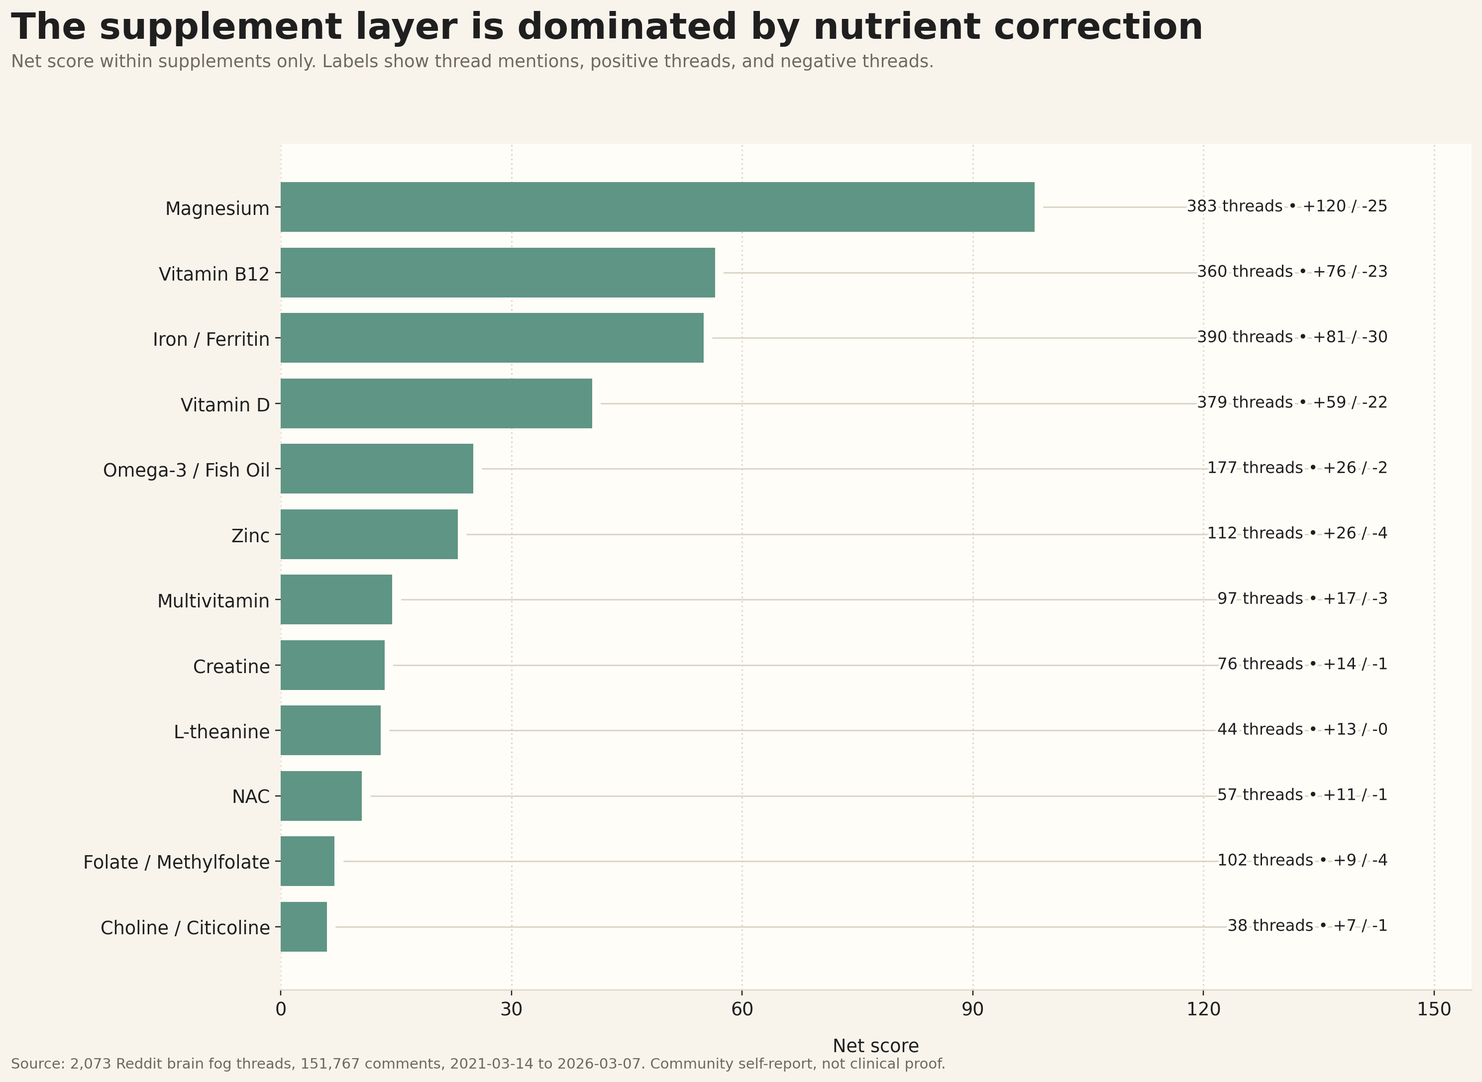
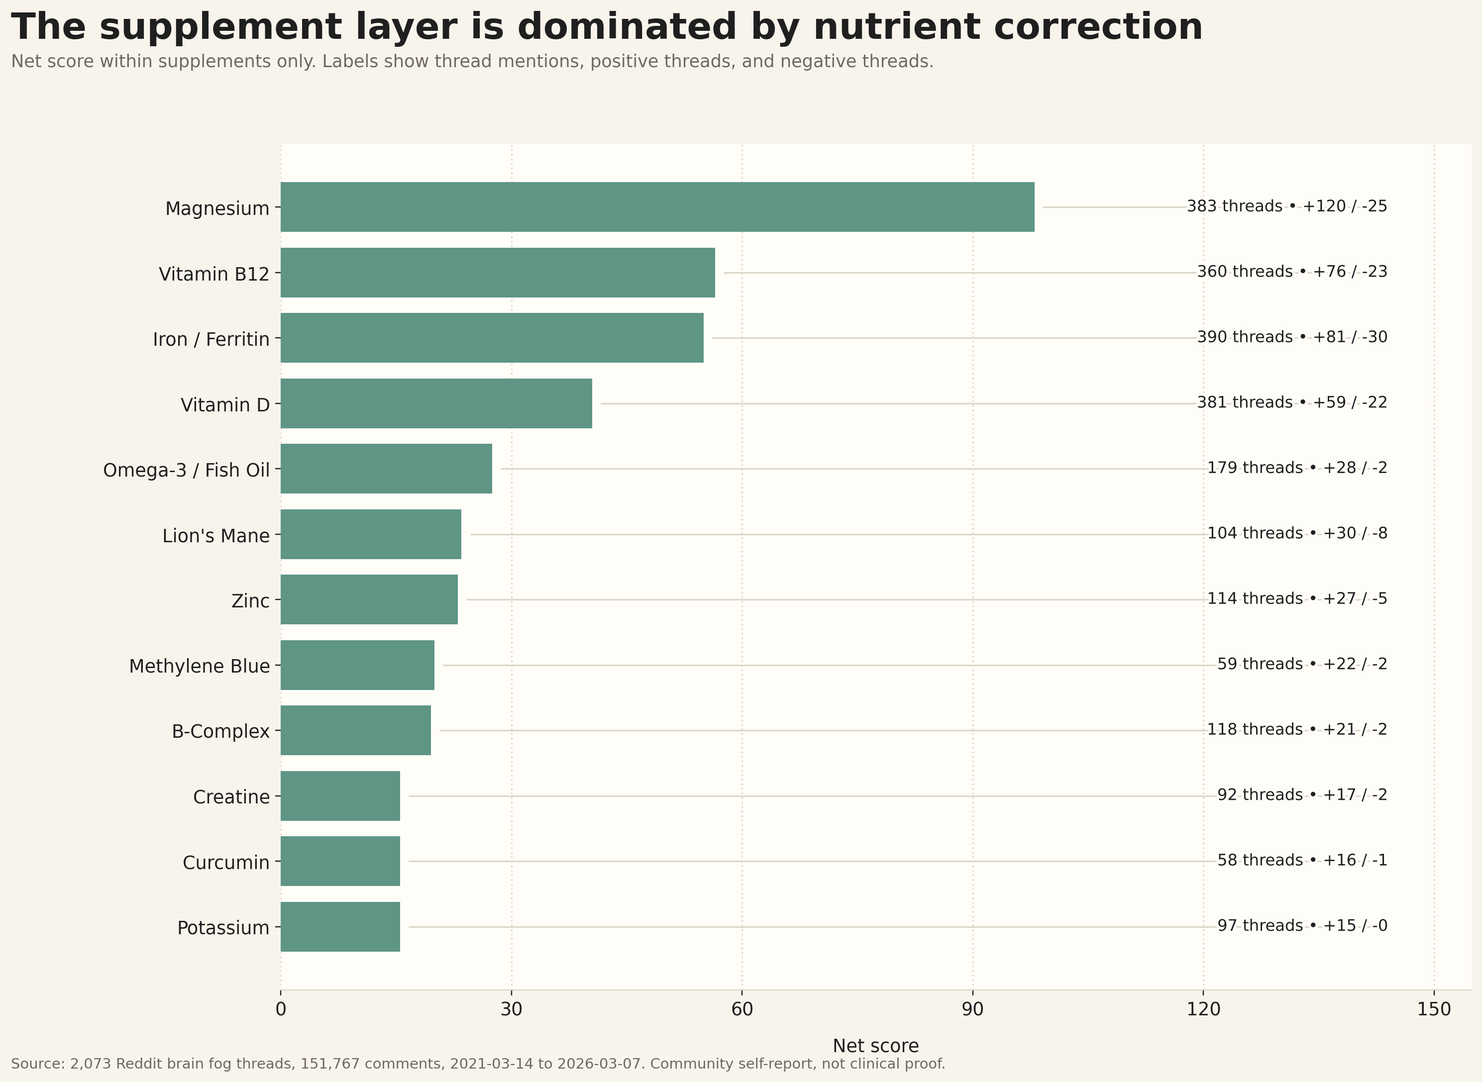
Deploy site from personal-website

diff --git a/posts/2026/what-2073-reddit-brain-fog-threads-reveal/index.html b/posts/2026/what-2073-reddit-brain-fog-threads-reveal/index.html
@@ -219,7 +219,7 @@
 	animation-duration: 180ms;
 	animation-timing-function: cubic-bezier(0.76, 0, 0.24, 1);
 	animation-fill-mode: both;
-	animation-name: astroFadeIn; }</style></head> <body data-astro-cid-sckkx6r4>  <script type="application/ld+json">{"@context":"https://schema.org","@type":"BlogPosting","headline":"Five Years of Brain Fog on Reddit: What 2,073 Threads and 151,767 Comments Reveal","description":"A five-year Reddit analysis of brain fog across 2,073 threads and 151,767 comments, showing which interventions dominate attention, which patterns look strongest, which ideas look divisive, and which quieter signals seem underrated.","author":{"@type":"Person","name":"Markus Baumann","url":"https://eybmits.github.io/about"},"datePublished":"2026-03-07T22:55:00.000Z","dateModified":"2026-03-07T22:55:00.000Z","publisher":{"@type":"Person","name":"Markus Baumann","logo":{"@type":"ImageObject","url":"https://eybmits.github.io/avatar.svg"}},"mainEntityOfPage":{"@type":"WebPage","@id":"https://eybmits.github.io/posts/2026/what-2073-reddit-brain-fog-threads-reveal"},"image":"https://eybmits.github.io/posts/2026/what-2073-reddit-brain-fog-threads-reveal/index.png","articleSection":"brain-fog","keywords":"brain-fog, data-analysis, reddit, health, research","wordCount":2053,"timeRequired":"11 min read"}</script> <header> <a id="skip-to-content" href="#main-content" class="absolute -top-full left-16 z-50 bg-background px-3 py-2 text-accent backdrop-blur-lg transition-all focus:top-4">
+	animation-name: astroFadeIn; }</style></head> <body data-astro-cid-sckkx6r4>  <script type="application/ld+json">{"@context":"https://schema.org","@type":"BlogPosting","headline":"Five Years of Brain Fog on Reddit: What 2,073 Threads and 151,767 Comments Reveal","description":"A five-year Reddit analysis of brain fog across 2,073 threads and 151,767 comments, showing which interventions dominate attention, which patterns look strongest, which ideas look divisive, and which quieter signals seem underrated.","author":{"@type":"Person","name":"Markus Baumann","url":"https://eybmits.github.io/about"},"datePublished":"2026-03-07T22:55:00.000Z","dateModified":"2026-03-07T22:55:00.000Z","publisher":{"@type":"Person","name":"Markus Baumann","logo":{"@type":"ImageObject","url":"https://eybmits.github.io/avatar.svg"}},"mainEntityOfPage":{"@type":"WebPage","@id":"https://eybmits.github.io/posts/2026/what-2073-reddit-brain-fog-threads-reveal"},"image":"https://eybmits.github.io/posts/2026/what-2073-reddit-brain-fog-threads-reveal/index.png","articleSection":"brain-fog","keywords":"brain-fog, data-analysis, reddit, health, research","wordCount":2103,"timeRequired":"11 min read"}</script> <header> <a id="skip-to-content" href="#main-content" class="absolute -top-full left-16 z-50 bg-background px-3 py-2 text-accent backdrop-blur-lg transition-all focus:top-4">
 Skip to content
 </a> <div id="nav-container" class="mx-auto flex max-w-3xl flex-col items-center justify-between sm:flex-row"> <div id="top-nav-wrap" class="relative flex w-full items-baseline justify-between bg-background p-4 sm:items-center sm:py-6"> <a href="/" class="absolute py-1 text-2xl leading-7 font-semibold whitespace-nowrap sm:static"> Markus Baumann </a> <nav id="nav-menu" class="flex w-full flex-col items-center sm:ml-2 sm:flex-row sm:justify-end sm:space-x-4 sm:py-0"> <button id="menu-btn" class="focus-outline self-end p-2 sm:hidden" aria-label="Open Menu" aria-expanded="false" aria-controls="menu-items"> <svg width="24" height="24" viewBox="0 0 24 24" fill="none" stroke="currentColor" stroke-width="2" stroke-linecap="round" stroke-linejoin="round" class="hidden" id="close-icon"><path stroke="none" d="M0 0h24v24H0z" fill="none" /><path d="M18 6l-12 12" /><path d="M6 6l12 12" /></svg> <svg width="24" height="24" viewBox="0 0 24 24" fill="none" stroke="currentColor" stroke-width="2" stroke-linecap="round" stroke-linejoin="round" class="icon icon-tabler icons-tabler-outline icon-tabler-menu-deep" id="menu-icon"><path stroke="none" d="M0 0h24v24H0z" fill="none" /><path d="M4 6h16" /><path d="M7 12h13" /><path d="M10 18h10" /></svg> </button> <ul id="menu-items" class="mt-4 grid w-44 grid-cols-2 place-content-center gap-2 [&#38;>li>a]:block [&#38;>li>a]:px-4 [&#38;>li>a]:py-3 [&#38;>li>a]:text-center [&#38;>li>a]:font-medium [&#38;>li>a]:hover:text-accent sm:[&#38;>li>a]:px-2 sm:[&#38;>li>a]:py-1 hidden sm:mt-0 sm:ml-0 sm:flex sm:w-auto sm:gap-x-5 sm:gap-y-0"> <li class="col-span-2"> <a href="/posts" class="active-nav">
 Posts
@@ -260,7 +260,7 @@ About
 <p>Once you zoom out, the conversation becomes much more structured than it first appears.</p>
 <p>It is not just a cloud of random desperation posts. And it is not dominated mainly by fringe biohacking. Across five years and more than <code>150,000</code> comments, the same themes keep resurfacing: sleep, nutrient status, movement, hydration, stress regulation, diet, stimulants, antihistamines, hormones, breathing, and pacing.</p>
 <p>A second pattern is just as striking: the strongest signals are often less glamorous than people expect. Sleep hygiene, therapy, hydration, walking, magnesium, <code>B12</code>, iron, and basic nutrition changes show up over and over again. The center of gravity is much closer to regulation and correction than to miracle hacks.</p>
-<p>Then there is a third layer: some lower-visibility ideas appear stronger than their level of attention would suggest. Antihistamines, <code>CPAP / BiPAP</code>, <code>L-theanine</code>, hormone-related interventions, and a handful of quieter strategies stand out more than their visibility would predict.</p>
+<p>Then there is a third layer: some lower-visibility ideas appear stronger than their level of attention would suggest. Antihistamines still stand out, but the refreshed item set also pulls up <code>Methylene Blue</code>, <code>Nattokinase</code>, <code>Low-Histamine Diet</code>, <code>Curcumin</code>, <code>Berberine</code>, <code>B-Complex</code>, and <code>Thiamine / Vitamin B1</code> as quieter signals worth a closer look.</p>
 <p>This does not make them proven. It makes them interesting.</p>
 <h2 id="1-what-gets-mentioned-most">1. What gets mentioned most?</h2>
 <figure>
@@ -281,19 +281,7 @@ About
 <h2 id="3-which-interventions-look-promising-and-which-look-divisive">3. Which interventions look promising, and which look divisive?</h2>
 <p>The hero chart above is the single best overview in the entire post.</p>
 <p>The x-axis shows the share of mentioning threads that describe an intervention negatively. The y-axis shows the share of mentioning threads that describe it positively. So the most attractive region is the upper left: more positive reports, fewer negative ones.</p>
-<p>That focus zone is where several clean signals cluster:</p>
-<ol>
-<li><code>Yoga / Stretching</code></li>
-<li><code>Intermittent Fasting</code></li>
-<li><code>Sleep Hygiene / Sleep Schedule</code></li>
-<li><code>Meditation / Breathwork</code></li>
-<li><code>L-theanine</code></li>
-<li><code>Guanfacine / Clonidine</code></li>
-<li><code>Hydration / Electrolyte Protocol</code></li>
-<li><code>Cardio Training</code></li>
-<li><code>Hormone Replacement Protocol</code></li>
-<li><code>Zinc</code></li>
-</ol>
+<p>That focus zone now includes several especially clean signals: <code>Nattokinase</code>, <code>Methylene Blue</code>, <code>Low-Histamine Diet</code>, <code>Yoga / Stretching</code>, <code>Guanfacine / Clonidine</code>, <code>Intermittent Fasting</code>, <code>Sleep Hygiene / Sleep Schedule</code>, <code>Meditation / Breathwork</code>, <code>Curcumin</code>, <code>L-theanine</code>, <code>Hydration / Electrolyte Protocol</code>, <code>Cardio Training</code>, <code>Zinc</code>, and <code>Hormone Replacement Protocol</code>.</p>
 <p>The chart also shows why some medications need a more careful reading. <code>Vyvanse</code>, <code>Ritalin / Methylphenidate</code>, <code>Adderall</code>, and <code>Bupropion / Wellbutrin</code> can sit fairly high on positive reports while also drifting rightward into a more divisive zone. In plain English: they can help, but they also generate more downside reports and more disagreement.</p>
 <p>Some interventions look broadly clean. Others look powerful but unstable.</p>
 <h2 id="4-which-supplements-lead-the-pack">4. Which supplements lead the pack?</h2>
@@ -302,8 +290,8 @@ About
   <figcaption>Supplements are one of the cleanest categories to inspect separately because they mix broad micronutrient correction with more speculative nootropics.</figcaption>
 </figure>
 <p>The supplement chart is more conservative than the internet usually is.</p>
-<p>The top layer is familiar and surprisingly robust: <code>Magnesium</code>, <code>Vitamin B12</code>, <code>Iron / Ferritin</code>, and <code>Vitamin D</code>. Those are not trendy answers, but they recur again and again. Lower down, <code>Omega-3 / Fish Oil</code>, <code>Zinc</code>, <code>Creatine</code>, <code>L-theanine</code>, <code>NAC</code>, and <code>Choline / Citicoline</code> form a secondary tier.</p>
-<p>One interpretation is that the supplement story is not mainly about flashy cognitive enhancers. It is often about correcting basic physiological problems first: deficiency, stress load, sleep quality, energy balance, and inflammation-adjacent issues.</p>
+<p>The top layer is still familiar and surprisingly robust: <code>Magnesium</code>, <code>Vitamin B12</code>, <code>Iron / Ferritin</code>, and <code>Vitamin D</code>. Those are not trendy answers, but they recur again and again. But the next tier is broader than the first pass suggested. <code>Omega-3 / Fish Oil</code> stays visible, while <code>Lion's Mane</code>, <code>Methylene Blue</code>, <code>B-Complex</code>, <code>Creatine</code>, <code>Curcumin</code>, <code>Potassium</code>, <code>Thiamine / Vitamin B1</code>, <code>Multivitamin</code>, <code>L-theanine</code>, and <code>Nattokinase</code> now register as meaningful supplement-level signals.</p>
+<p>One interpretation is that the supplement story is still not mainly about flashy cognitive enhancers. Even many of the newer names map back to subtype stories: post-viral recovery, histamine, methylation or B-vitamin status, gut-directed protocols, inflammation, and energy metabolism.</p>
 <h2 id="5-which-medications-stand-out">5. Which medications stand out?</h2>
 <figure>
   <img src="/images/posts/brainfog-reddit-analysis/05_top_medications.png" alt="Bar chart of the top medications discussed for brain fog by net score.">
@@ -326,7 +314,7 @@ About
   <figcaption>These are interventions with stronger-than-expected support relative to how rarely they are discussed.</figcaption>
 </figure>
 <p>This chart is where the analysis starts to get interesting.</p>
-<p>The standout names are <code>L-theanine</code>, <code>Antihistamines</code>, <code>Carnivore Diet</code>, and <code>Guanfacine / Clonidine</code>. These are not the most talked-about ideas overall, but they look stronger than their low visibility would predict.</p>
+<p>The standout names now are <code>Nattokinase</code>, <code>Berberine</code>, <code>Methylene Blue</code>, <code>Low-Histamine Diet</code>, <code>Curcumin</code>, <code>Antihistamines</code>, <code>L-theanine</code>, and <code>Lion's Mane</code>. These are not the most talked-about ideas overall, but they look stronger than their low visibility would predict.</p>
 <p>That makes them worth paying attention to, not because they are proven winners, but because low-visibility signals are exactly where communities sometimes notice something before it becomes mainstream.</p>
 <h2 id="8-what-looks-underrated-once-you-combine-signal-quality-and-surprise">8. What looks underrated once you combine signal quality and surprise?</h2>
 <figure>
@@ -334,7 +322,7 @@ About
   <figcaption>This ranking blends positivity, low downside, and surprise relative to visibility.</figcaption>
 </figure>
 <p>The underrated-positive ranking broadens the hidden-gem idea.</p>
-<p><code>L-theanine</code> remains the strongest low-visibility signal. <code>Antihistamines</code> stay unusually prominent. <code>Carnivore Diet</code>, <code>Zinc</code>, <code>Hormone Replacement Protocol</code>, <code>NAC</code>, <code>Creatine</code>, <code>Elimination Diet</code>, <code>Gluten-free</code>, <code>Guanfacine / Clonidine</code>, <code>Multivitamin</code>, and <code>Choline / Citicoline</code> all show up as interventions that seem better than their low status would suggest.</p>
+<p><code>Methylene Blue</code> and <code>Nattokinase</code> now lead the underrated-positive ranking. <code>Low-Histamine Diet</code>, <code>Berberine</code>, <code>Curcumin</code>, <code>Antihistamines</code>, <code>L-theanine</code>, <code>Lion's Mane</code>, <code>Carnivore Diet</code>, <code>Zinc</code>, <code>Hormone Replacement Protocol</code>, and <code>Low-Dose Naltrexone</code> also show up as interventions that seem better than their low status would suggest.</p>
 <p>Even if not every individual signal survives future scrutiny, the pattern is still useful: many of the overlooked signals cluster around inflammation, diet tolerance, autonomic regulation, or deficiency correction rather than generic “brain boosters.”</p>
 <h2 id="9-which-very-low-visibility-ideas-still-deserve-attention">9. Which very low-visibility ideas still deserve attention?</h2>
 <figure>
@@ -342,7 +330,7 @@ About
   <figcaption>This is the stricter version of the hidden-gem view: interventions that barely get discussed but still look unexpectedly positive.</figcaption>
 </figure>
 <p>Once the filter becomes more demanding, the list gets narrower and more provocative.</p>
-<p><code>L-theanine</code> still holds up. <code>Hormone Replacement Protocol</code> remains notable. <code>Guanfacine / Clonidine</code>, <code>Choline / Citicoline</code>, <code>Low-Dose Naltrexone</code>, and even <code>Dairy-free</code> appear as small but non-trivial signals.</p>
+<p><code>Nattokinase</code> now tops the stricter filter. <code>Hormone Replacement Protocol</code> remains notable. <code>Guanfacine / Clonidine</code>, <code>Low-Dose Naltrexone</code>, <code>Red-Light Therapy</code>, <code>Digestive Enzymes</code>, <code>Choline / Citicoline</code>, and <code>Propranolol</code> also survive this narrower screen.</p>
 <p>These are exactly the kinds of findings that can generate useful next questions. Not “this definitely works,” but “why does this show up here, and for which subgroup?”</p>
 <h2 id="10-which-interventions-look-positive-with-comparatively-low-downside">10. Which interventions look positive with comparatively low downside?</h2>
 <figure>
@@ -350,7 +338,7 @@ About
   <figcaption>If you optimize for cleaner profiles rather than sheer force, a somewhat different list rises.</figcaption>
 </figure>
 <p>This is one of the most practical charts in the whole set.</p>
-<p>If you care about interventions that combine meaningful positive reports with a relatively small negative tail, <code>Meditation / Breathwork</code>, <code>Cardio Training</code>, <code>L-theanine</code>, <code>Zinc</code>, <code>Pacing / Energy Envelope</code>, <code>Elimination Diet</code>, <code>Hormone Replacement Protocol</code>, <code>Creatine</code>, <code>Multivitamin</code>, <code>NAC</code>, and <code>Choline / Citicoline</code> move up.</p>
+<p>If you care about interventions that combine meaningful positive reports with a relatively small negative tail, <code>Meditation / Breathwork</code> still looks strong, but <code>Methylene Blue</code>, <code>Nattokinase</code>, <code>Cardio Training</code>, <code>Curcumin</code>, <code>L-theanine</code>, <code>Pacing / Energy Envelope</code>, <code>B-Complex</code>, <code>Elimination Diet</code>, <code>Niacin / Vitamin B3</code>, <code>Creatine</code>, and <code>Hormone Replacement Protocol</code> also rise.</p>
 <p>This is not a prescription list, but it is a very useful triage list. It tells you where the Reddit conversation sees relatively good upside without as much complaint burden.</p>
 <h2 id="so-what-did-this-project-actually-change-for-me">So what did this project actually change for me?</h2>
 <p>The biggest shift was not finding a silver bullet. It was losing the expectation that there should be one.</p>

diff --git a/posts/2026/what-2073-reddit-brain-fog-threads-reveal.md b/posts/2026/what-2073-reddit-brain-fog-threads-reveal.md
@@ -37,7 +37,7 @@ It is not just a cloud of random desperation posts. And it is not dominated main
 
 A second pattern is just as striking: the strongest signals are often less glamorous than people expect. Sleep hygiene, therapy, hydration, walking, magnesium, `B12`, iron, and basic nutrition changes show up over and over again. The center of gravity is much closer to regulation and correction than to miracle hacks.
 
-Then there is a third layer: some lower-visibility ideas appear stronger than their level of attention would suggest. Antihistamines, `CPAP / BiPAP`, `L-theanine`, hormone-related interventions, and a handful of quieter strategies stand out more than their visibility would predict.
+Then there is a third layer: some lower-visibility ideas appear stronger than their level of attention would suggest. Antihistamines still stand out, but the refreshed item set also pulls up `Methylene Blue`, `Nattokinase`, `Low-Histamine Diet`, `Curcumin`, `Berberine`, `B-Complex`, and `Thiamine / Vitamin B1` as quieter signals worth a closer look.
 
 This does not make them proven. It makes them interesting.
 
@@ -73,18 +73,7 @@ The hero chart above is the single best overview in the entire post.
 
 The x-axis shows the share of mentioning threads that describe an intervention negatively. The y-axis shows the share of mentioning threads that describe it positively. So the most attractive region is the upper left: more positive reports, fewer negative ones.
 
-That focus zone is where several clean signals cluster:
-
-1. `Yoga / Stretching`
-2. `Intermittent Fasting`
-3. `Sleep Hygiene / Sleep Schedule`
-4. `Meditation / Breathwork`
-5. `L-theanine`
-6. `Guanfacine / Clonidine`
-7. `Hydration / Electrolyte Protocol`
-8. `Cardio Training`
-9. `Hormone Replacement Protocol`
-10. `Zinc`
+That focus zone now includes several especially clean signals: `Nattokinase`, `Methylene Blue`, `Low-Histamine Diet`, `Yoga / Stretching`, `Guanfacine / Clonidine`, `Intermittent Fasting`, `Sleep Hygiene / Sleep Schedule`, `Meditation / Breathwork`, `Curcumin`, `L-theanine`, `Hydration / Electrolyte Protocol`, `Cardio Training`, `Zinc`, and `Hormone Replacement Protocol`.
 
 The chart also shows why some medications need a more careful reading. `Vyvanse`, `Ritalin / Methylphenidate`, `Adderall`, and `Bupropion / Wellbutrin` can sit fairly high on positive reports while also drifting rightward into a more divisive zone. In plain English: they can help, but they also generate more downside reports and more disagreement.
 
@@ -99,9 +88,9 @@ Some interventions look broadly clean. Others look powerful but unstable.
 
 The supplement chart is more conservative than the internet usually is.
 
-The top layer is familiar and surprisingly robust: `Magnesium`, `Vitamin B12`, `Iron / Ferritin`, and `Vitamin D`. Those are not trendy answers, but they recur again and again. Lower down, `Omega-3 / Fish Oil`, `Zinc`, `Creatine`, `L-theanine`, `NAC`, and `Choline / Citicoline` form a secondary tier.
+The top layer is still familiar and surprisingly robust: `Magnesium`, `Vitamin B12`, `Iron / Ferritin`, and `Vitamin D`. Those are not trendy answers, but they recur again and again. But the next tier is broader than the first pass suggested. `Omega-3 / Fish Oil` stays visible, while `Lion's Mane`, `Methylene Blue`, `B-Complex`, `Creatine`, `Curcumin`, `Potassium`, `Thiamine / Vitamin B1`, `Multivitamin`, `L-theanine`, and `Nattokinase` now register as meaningful supplement-level signals.
 
-One interpretation is that the supplement story is not mainly about flashy cognitive enhancers. It is often about correcting basic physiological problems first: deficiency, stress load, sleep quality, energy balance, and inflammation-adjacent issues.
+One interpretation is that the supplement story is still not mainly about flashy cognitive enhancers. Even many of the newer names map back to subtype stories: post-viral recovery, histamine, methylation or B-vitamin status, gut-directed protocols, inflammation, and energy metabolism.
 
 ## 5. Which medications stand out?
 
@@ -138,7 +127,7 @@ This is one of the strongest signs that brain fog is often lived as a systems pr
 
 This chart is where the analysis starts to get interesting.
 
-The standout names are `L-theanine`, `Antihistamines`, `Carnivore Diet`, and `Guanfacine / Clonidine`. These are not the most talked-about ideas overall, but they look stronger than their low visibility would predict.
+The standout names now are `Nattokinase`, `Berberine`, `Methylene Blue`, `Low-Histamine Diet`, `Curcumin`, `Antihistamines`, `L-theanine`, and `Lion's Mane`. These are not the most talked-about ideas overall, but they look stronger than their low visibility would predict.
 
 That makes them worth paying attention to, not because they are proven winners, but because low-visibility signals are exactly where communities sometimes notice something before it becomes mainstream.
 
@@ -151,7 +140,7 @@ That makes them worth paying attention to, not because they are proven winners, 
 
 The underrated-positive ranking broadens the hidden-gem idea.
 
-`L-theanine` remains the strongest low-visibility signal. `Antihistamines` stay unusually prominent. `Carnivore Diet`, `Zinc`, `Hormone Replacement Protocol`, `NAC`, `Creatine`, `Elimination Diet`, `Gluten-free`, `Guanfacine / Clonidine`, `Multivitamin`, and `Choline / Citicoline` all show up as interventions that seem better than their low status would suggest.
+`Methylene Blue` and `Nattokinase` now lead the underrated-positive ranking. `Low-Histamine Diet`, `Berberine`, `Curcumin`, `Antihistamines`, `L-theanine`, `Lion's Mane`, `Carnivore Diet`, `Zinc`, `Hormone Replacement Protocol`, and `Low-Dose Naltrexone` also show up as interventions that seem better than their low status would suggest.
 
 Even if not every individual signal survives future scrutiny, the pattern is still useful: many of the overlooked signals cluster around inflammation, diet tolerance, autonomic regulation, or deficiency correction rather than generic “brain boosters.”
 
@@ -164,7 +153,7 @@ Even if not every individual signal survives future scrutiny, the pattern is sti
 
 Once the filter becomes more demanding, the list gets narrower and more provocative.
 
-`L-theanine` still holds up. `Hormone Replacement Protocol` remains notable. `Guanfacine / Clonidine`, `Choline / Citicoline`, `Low-Dose Naltrexone`, and even `Dairy-free` appear as small but non-trivial signals.
+`Nattokinase` now tops the stricter filter. `Hormone Replacement Protocol` remains notable. `Guanfacine / Clonidine`, `Low-Dose Naltrexone`, `Red-Light Therapy`, `Digestive Enzymes`, `Choline / Citicoline`, and `Propranolol` also survive this narrower screen.
 
 These are exactly the kinds of findings that can generate useful next questions. Not “this definitely works,” but “why does this show up here, and for which subgroup?”
 
@@ -177,7 +166,7 @@ These are exactly the kinds of findings that can generate useful next questions.
 
 This is one of the most practical charts in the whole set.
 
-If you care about interventions that combine meaningful positive reports with a relatively small negative tail, `Meditation / Breathwork`, `Cardio Training`, `L-theanine`, `Zinc`, `Pacing / Energy Envelope`, `Elimination Diet`, `Hormone Replacement Protocol`, `Creatine`, `Multivitamin`, `NAC`, and `Choline / Citicoline` move up.
+If you care about interventions that combine meaningful positive reports with a relatively small negative tail, `Meditation / Breathwork` still looks strong, but `Methylene Blue`, `Nattokinase`, `Cardio Training`, `Curcumin`, `L-theanine`, `Pacing / Energy Envelope`, `B-Complex`, `Elimination Diet`, `Niacin / Vitamin B3`, `Creatine`, and `Hormone Replacement Protocol` also rise.
 
 This is not a prescription list, but it is a very useful triage list. It tells you where the Reddit conversation sees relatively good upside without as much complaint burden.
 
